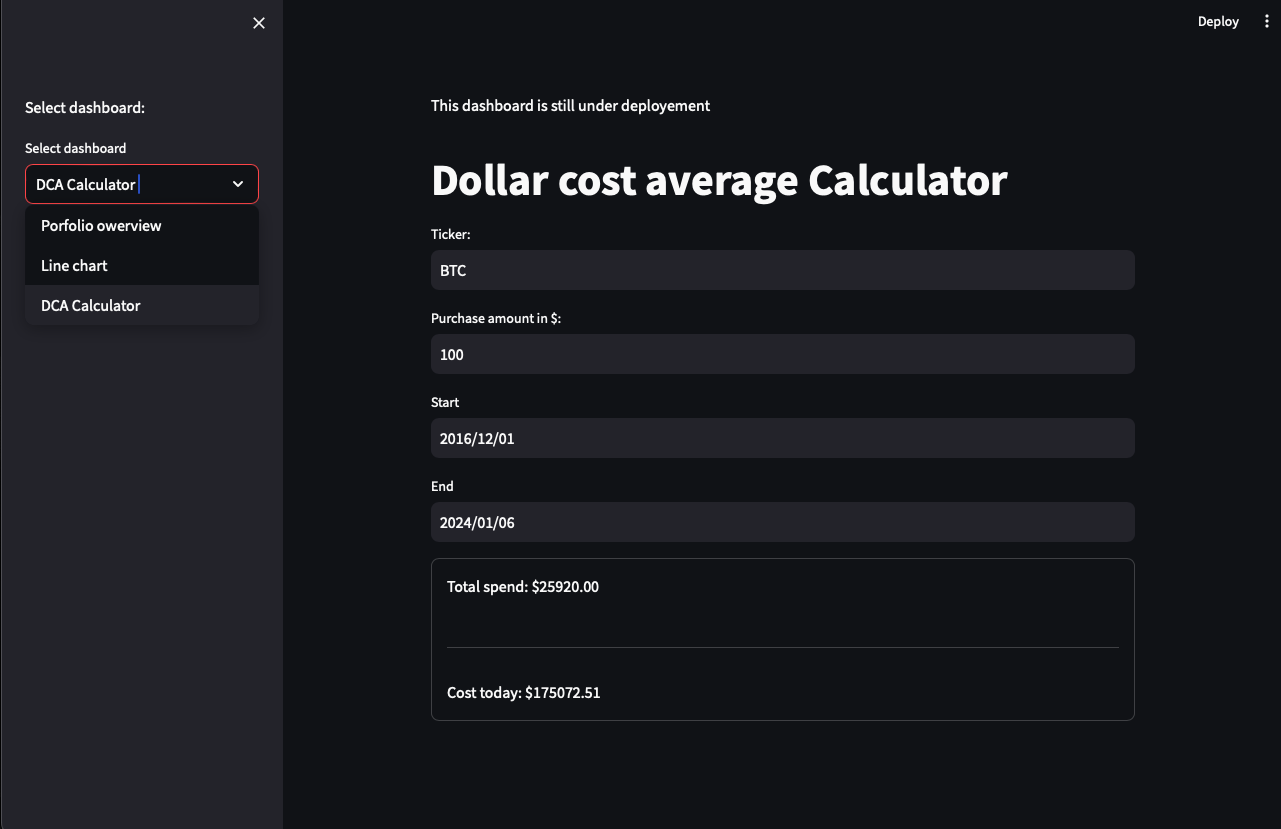
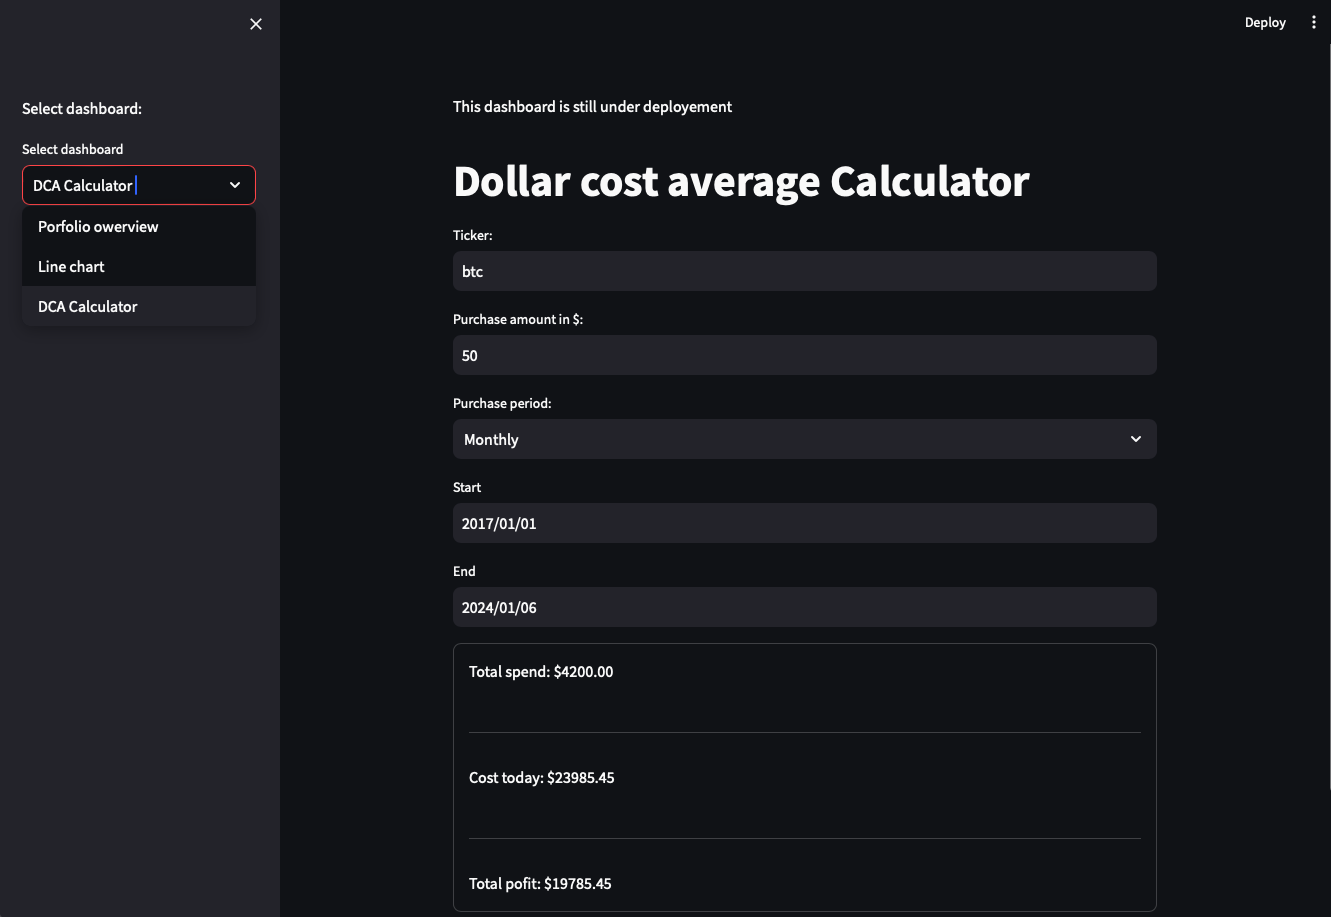
functions and UI implementation

diff --git a/WebApp_Dashboard/Dashboard.py b/WebApp_Dashboard/Dashboard.py
@@ -81,25 +81,61 @@ if option == "Line chart":
 
 
 if option == "DCA Calculator":
-    
+    # Users Values input
     st.title("Dollar cost average Calculator")
     input = st.text_input('Ticker:')
     ticker = f'{input}-USD'
     payment_str = st.text_input('Purchase amount in $:')    
-    RepeatePurchase = st.selectbox(
-    'Repeate Purchase:',
+    purchase_period = st.selectbox(
+    'Purchase period:',
     ('Daily', 'Weekly', 'Monthly'))
+
+    start_period = st.date_input('Start', value = pd.to_datetime('2023-01-01'))
+    end_period = st.date_input('End', value = pd.to_datetime('today'))
+    
+
+    # Check, the period of investment strategy, and passing the stock dataframe and the date
+    if purchase_period == 'Daily':
+        stock_data = yf.download(tickers=ticker, period = 'max', interval = '1d')
+        closest_start_date = start_period
+        closest_end_date = end_period
+    elif purchase_period == 'Monthly':   
+        stock_data = yf.download(tickers=ticker, period = 'max', interval = '1d')
+        if stock_data.index.min() <= pd.to_datetime(start_period) <= stock_data.index.max():
+            stock_data = stock_data.resample('M').mean()
+
+            start_period = pd.to_datetime(start_period)
+            closest_start_date_index = main.nearest_datetime_value(stock_data.index, start_period)
+            closest_start_date = stock_data.index[closest_start_date_index]
+
+            end_period = pd.to_datetime(end_period)
+            closest_end_date_index = main.nearest_datetime_value(stock_data.index, end_period)
+            closest_end_date = stock_data.index[closest_end_date_index]
+        else: 
+            st.write("Error 1 - Please contact your developer team")
+    elif purchase_period == 'Weekly':
+        stock_data = yf.download(tickers=ticker, period = 'max', interval = '1d')
+        if stock_data.index.min() <= pd.to_datetime(start_period) <= stock_data.index.max():
+            stock_data = stock_data.resample('W').mean()
+
+            start_period = pd.to_datetime(start_period)
+            closest_start_date_index = main.nearest_datetime_value(stock_data.index, start_period)
+            closest_start_date = stock_data.index[closest_start_date_index]
+
+            end_period = pd.to_datetime(end_period)
+            closest_end_date_index = main.nearest_datetime_value(stock_data.index, end_period)
+            closest_end_date = stock_data.index[closest_end_date_index]
+        else:
+            st.write("Error 2- Please contact your developer team")
+
 
     if len(input) & len(payment_str) > 0:
         payment = float(payment_str)
-        start_period = st.date_input('Start', value = pd.to_datetime('2023-01-01'))
-        end_period = st.date_input('End', value = pd.to_datetime('today'))
-        stock_data = yf.download(tickers=ticker, period = 'max', interval = '1d')
+        if stock_data.index.min() <= pd.to_datetime(closest_start_date) <= stock_data.index.max():
+            total_spend , stack, avg_cost, price, cost_now, result  = main.dca_calculation(stock_data,closest_start_date, closest_end_date, payment)
+            total_pofit = cost_now - total_spend
 
-        if start_period in stock_data.index.date:       
-            
-            total_spend , stack, avg_cost, price, cost_now, result  = main.dca_calculation(stock_data,start_period, end_period, payment)
-
+            formatted_total_pofit = f"Total pofit:  ${total_pofit:.2f}"
             formatted_total_spend = f"Total spend:  ${total_spend:.2f}"
             formatted_cost_now = f"Cost today:  ${cost_now:.2f}"
 
@@ -108,6 +144,9 @@ if option == "DCA Calculator":
             container.write(formatted_total_spend)
             container.divider()
             container.write(formatted_cost_now)
+            container.divider()
+            container.write(formatted_total_pofit)
+
         #Error handling
         else:
             first_date_in_dataframe = stock_data.index.date[0]

diff --git a/WebApp_Dashboard/main.py b/WebApp_Dashboard/main.py
@@ -2,15 +2,15 @@ import pandas as pd
 import requests
 import json
 import yaml
-import streamlit as st
 import sqlite3 as sql
+import numpy as np
 
 # get the api key
 yaml_file = open('api_key/api_config_cc.yml', 'r')
 p = yaml.load(yaml_file, Loader=yaml.FullLoader)
 api_key = p['api_key']
 
-
+# API requset 
 def api_request(url):
     headers = {'authorization': 'Apikey ' + api_key,}
     session = requests.Session()
@@ -22,7 +22,6 @@ def api_request(url):
 
 def prepare_pricedata(df):
     df['date'] = pd.to_datetime(df['time'], unit='s')
-    #df.drop(columns=['time', 'conversionType', 'conversionSymbol','high', 'low', 'open', 'volumefrom', 'volumeto', 'date'], inplace=True)   
     return df
 
 def get_price(ticker):
@@ -36,12 +35,12 @@ def get_price(ticker):
     return(price)
 
 def load_data():
-    conn = sql.connect('data/Crypto.db') # SQL database connection
+    # Load the data from SQL database
+    conn = sql.connect('data/Crypto.db') 
     df_sum = pd.read_sql_query("SELECT * FROM PORTFOLIO", conn)
     conn.close
-    #df_sum = df_sum.drop(columns=['ID'])
 
-
+    # Data preparation
     df_sum['TotalAmount'] = df_sum.groupby('Ticker')['Amount'].transform('sum')
     df_sum.rename(columns={'TotalAmount':'Quantity'}, inplace=True)
 
@@ -68,10 +67,15 @@ def dca_calculation(data ,start_date, end_date, payment):
     avg_cost = total_spend/ sum(stack)
     cost_now = price * sum(stack)
     percentage = price / avg_cost
-    result = abs(1 - percentage)                
-    
+    result = abs(1 - percentage)    
     
     return total_spend , stack, avg_cost, price, cost_now, result
+
+def nearest_datetime_value(items, pivot):
+
+    time_diff = np.abs([date - pivot for date in items])
+
+    return time_diff.argmin(0)
 
 
 
